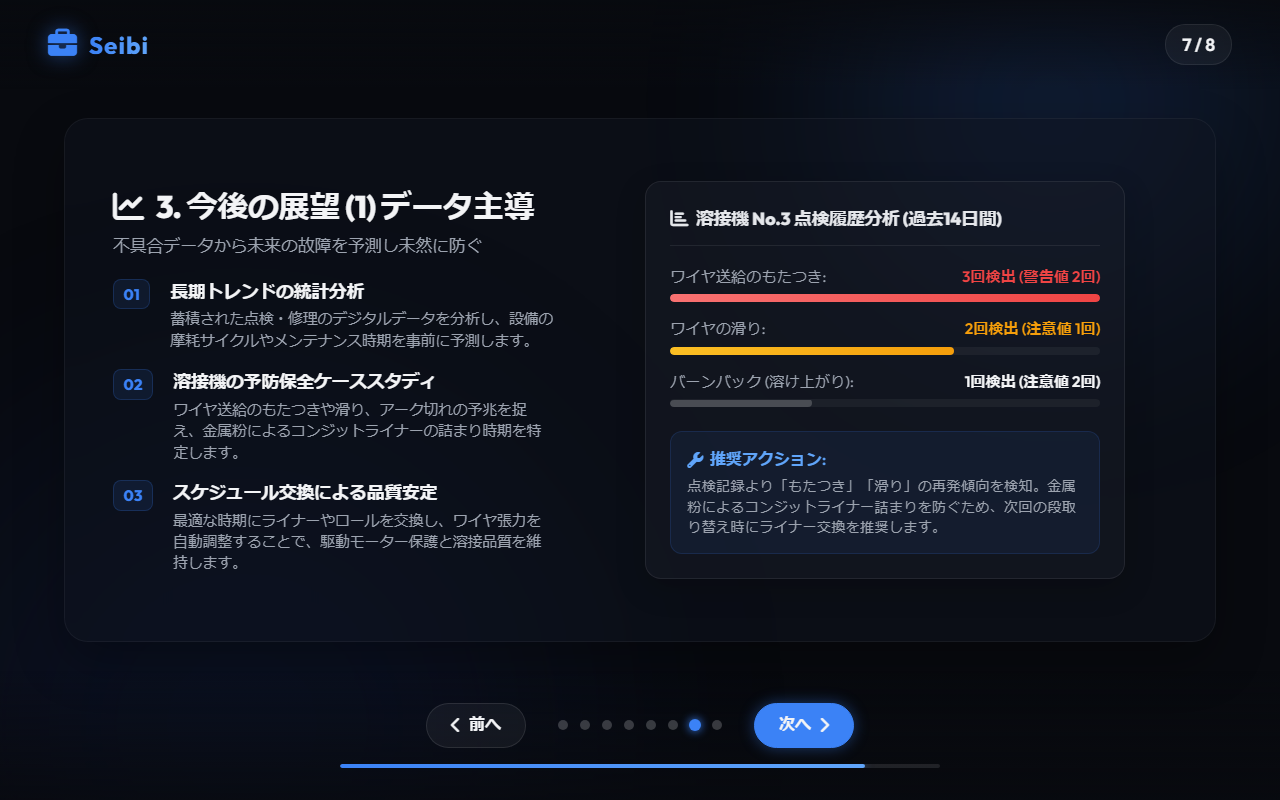
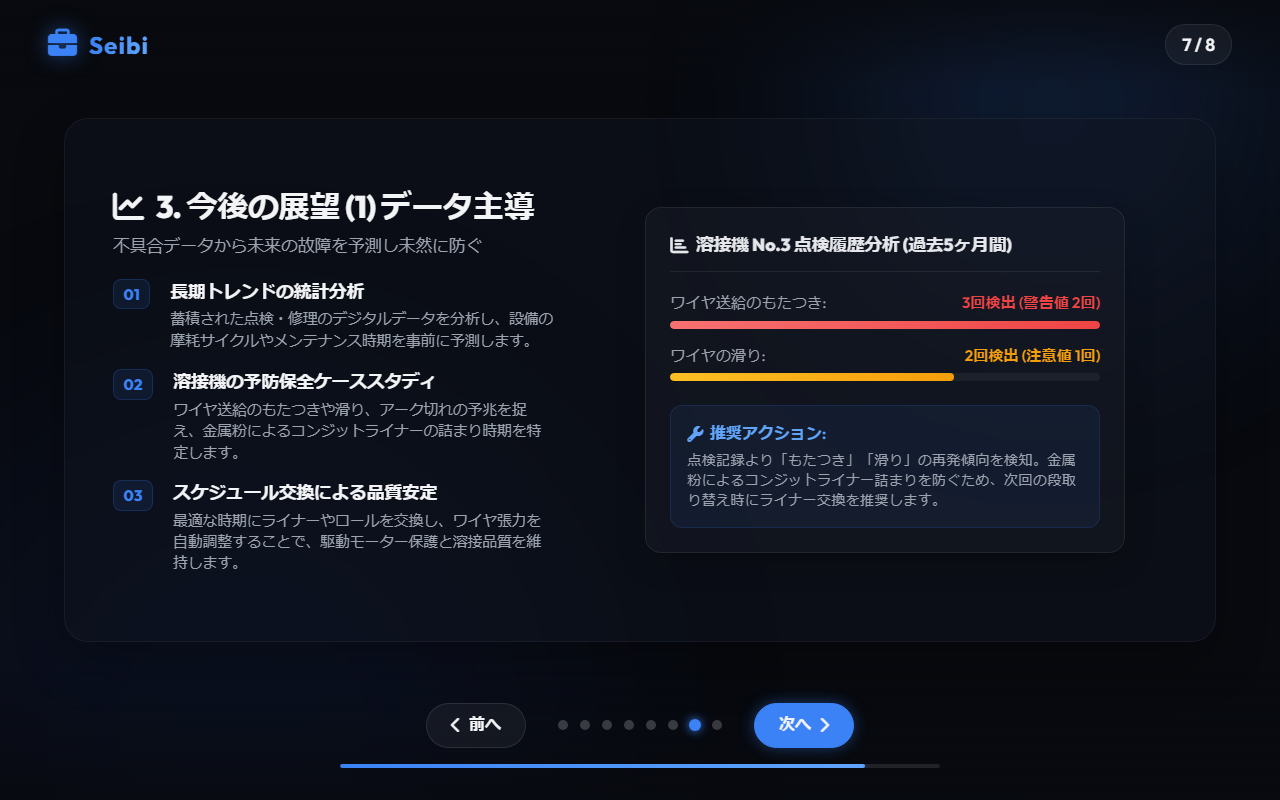
Update Slide 7 period to 5 months, remove burnback stat

Changed region(s): [[0.5, 0.25, 0.875, 0.6875]]

diff --git a/index.html b/index.html
@@ -277,7 +277,7 @@
         <div class="image-col">
           <div class="welding-demo-card">
             <div class="demo-card-header">
-              <i class="fa-solid fa-chart-bar"></i> 溶接機 No.3 点検履歴分析 (過去14日間)
+              <i class="fa-solid fa-chart-bar"></i> 溶接機 No.3 点検履歴分析 (過去5ヶ月間)
             </div>
             <div class="demo-card-body">
               <div class="stat-row">
@@ -291,12 +291,6 @@
                 <span class="stat-val val-warning">2回検出 (注意値 1回)</span>
               </div>
               <div class="progress-bar-light"><div class="progress-fill-light fill-warning" style="width: 66%"></div></div>
-
-              <div class="stat-row" style="margin-top: 1rem;">
-                <span class="stat-label">バーンバック (溶け上がり):</span>
-                <span class="stat-val">1回検出 (注意値 2回)</span>
-              </div>
-              <div class="progress-bar-light"><div class="progress-fill-light" style="width: 33%; background: rgba(255,255,255,0.2);"></div></div>
 
               <div class="predictive-action">
                 <div class="action-title"><i class="fa-solid fa-wrench"></i> 推奨アクション:</div>

diff --git a/generate_pptx.py b/generate_pptx.py
@@ -285,7 +285,7 @@ def create_presentation():
     tf_right = right_box.text_frame
     tf_right.word_wrap = True
     p_right = tf_right.paragraphs[0]
-    p_right.text = "点検履歴分析（過去14日間）"
+    p_right.text = "点検履歴分析（過去5ヶ月間）"
     p_right.font.name = FONT_TITLE
     p_right.font.size = Pt(20)
     p_right.font.bold = True
@@ -295,7 +295,6 @@ def create_presentation():
     sim_data = [
         "🔴 ワイヤ送給のもたつき: 3回検出 [警告基準: 2回以上]",
         "🟡 ワイヤの滑り: 2回検出 [注意基準: 1回以上]",
-        "⚪ バーンバック (溶け上がり): 1回検出 [注意基準: 2回以上]",
         "🔧 推奨アクション: 点検記録より「もたつき」「滑り」の再発傾向を検知。金属粉による詰まりを防ぐため、次回の段取り替え時にライナー交換を推奨します。"
     ]
     add_bullets(tf_right, sim_data)
